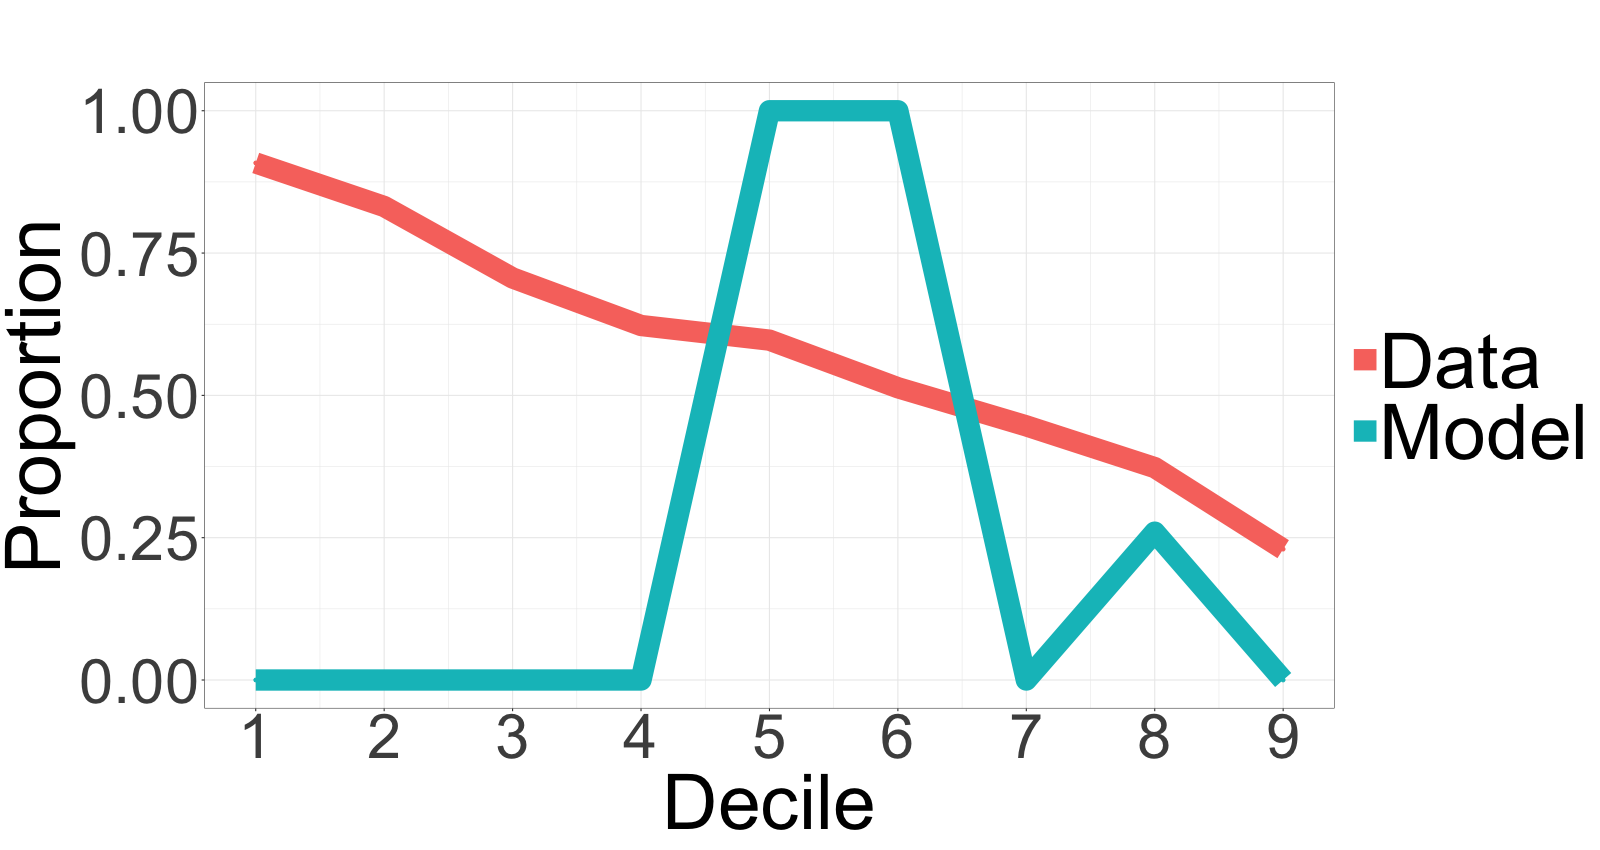
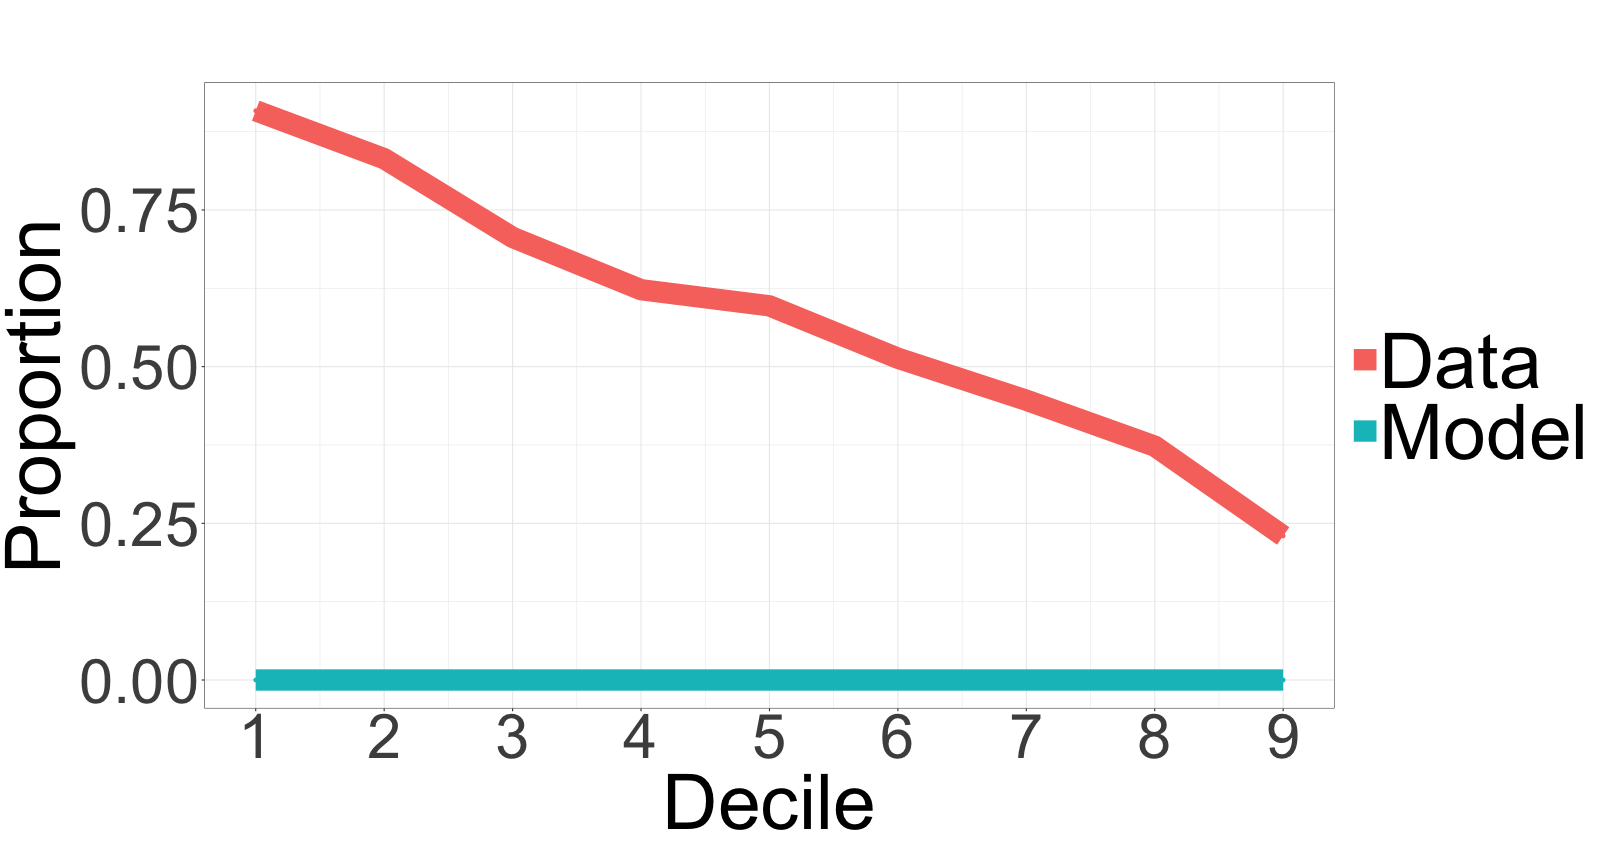
Include moment 2, labor demand, properly normalized in the computation of the distance

diff --git a/TheoreticalMoments/Equilibrium2-MODIFIABLE/Equilibrium2/main.cpp b/TheoreticalMoments/Equilibrium2-MODIFIABLE/Equilibrium2/main.cpp
@@ -1659,8 +1659,13 @@ double DistanceEstimator(arma::vec Others, arma::vec WagesInit,
     
     
             //Moment 2. Workers demanded (Size of firm).
+            vector<double> WorkersDemanded(10);
+            WorkersDemanded[0]=0.5;
+            WorkersDemanded[4]=1;
+            WorkersDemanded[8]=1.5;
     
             //Moment 3.Informal Demand
+            //This is handled directly in the computation of distances below.
     
     
             //Moment 4. Total Income.
@@ -1717,7 +1722,12 @@ double DistanceEstimator(arma::vec Others, arma::vec WagesInit,
     
     //Transforming theoretical income in proportion in terms of median:
     for(int it=0; it<9; it++){
-        //Total income and production.
+        
+        //Standardizing demand of workers total.
+        Theomoments[it][2]=Theomoments[it][2]/max(Theomoments[4][4],0.001);
+        
+        
+        //Total income and production are done because of the reason below.
         //The reason why this why decided to standardize was simply because when it comes to monetary unites
         //the distance is highly penalyzed. 
         Theomoments[it][4]=Theomoments[it][4]/max(Theomoments[4][4],0.001);
@@ -1746,24 +1756,18 @@ double DistanceEstimator(arma::vec Others, arma::vec WagesInit,
     }
     
     
-    
+    //0. Production
     distance+=3*pow((Production[0]-Theomoments[0][0])/(max(0.0001,Production[0])),2);
     distance+=3*pow((Production[4]-Theomoments[4][0])/(max(0.0001,Production[4])),2);
     distance+=3*pow((Production[8]-Theomoments[8][0])/(max(0.0001,Production[8])),2);
     
-    distance+=3*pow((IncomeEmpirical[0]-Theomoments[0][4])/(max(0.0001,IncomeEmpirical[0])),2);
-    distance+=3*pow((IncomeEmpirical[4]-Theomoments[4][4])/(max(0.0001,IncomeEmpirical[4])),2);
-    distance+=3*pow((IncomeEmpirical[8]-Theomoments[8][4])/(max(0.0001,IncomeEmpirical[8])),2);
+    //1. Taxes done inside of the loop.
+    //2. Labor demanded
+    distance+=3*pow((WorkersDemanded[0]-Theomoments[0][2])/(max(0.0001,WorkersDemanded[0])),2);
+    distance+=3*pow((WorkersDemanded[4]-Theomoments[4][2])/(max(0.0001,WorkersDemanded[4])),2);
+    distance+=3*pow((WorkersDemanded[8]-Theomoments[8][2])/(max(0.0001,WorkersDemanded[8])),2);
     
-    
-    distance+=3*pow((InformalSupplyProportion[0]-Theomoments[0][5])/(max(0.0001,InformalSupplyProportion[0])),2);
-    distance+=3*pow((InformalSupplyProportion[4]-Theomoments[4][5])/(max(0.0001,InformalSupplyProportion[4])),2);
-    distance+=3*pow((InformalSupplyProportion[8]-Theomoments[8][5])/(max(0.0001,InformalSupplyProportion[8])),2);
-    
-    distance+=3*pow((TotalLaborSupply[0]-Theomoments[0][6])/(max(0.0001,TotalLaborSupply[0])),2);
-    distance+=3*pow((TotalLaborSupply[4]-Theomoments[4][6])/(max(0.0001,TotalLaborSupply[4])),2);
-    distance+=3*pow((TotalLaborSupply[8]-Theomoments[8][6])/(max(0.0001,TotalLaborSupply[8])),2);
-    
+    //3. Informal demand
     //Moments relative to the proportion of informality in firm correspond to
     //4th, 7th and 8th decile. These proportions are 99.6, 97, and 91.2%.
     distance+=pow((Theomoments[3][3]-0.996)/(0.996),2);
@@ -1771,11 +1775,27 @@ double DistanceEstimator(arma::vec Others, arma::vec WagesInit,
     distance+=pow((Theomoments[7][3]-0.912)/(0.912),2);
     distance+=pow((Theomoments[8][3]-0.001)/(0.001),2);
     
-    cout << " pow((Theomoments[3][3]-0.996)/(0.996),2) "<< pow((Theomoments[3][3]-0.996)/(0.996),2) << endl;
-    cout << " pow((Theomoments[6][3]-0.996)/(0.996),2) "<< pow((Theomoments[6][3]-0.97)/(0.97),2) << endl;
-    cout << " pow((Theomoments[7][3]-0.996)/(0.996),2) "<< pow((Theomoments[7][3]-0.91)/(0.91),2) << endl;
-    cout << " pow((Theomoments[8][3]-0.996)/(0.996),2) "<< pow((Theomoments[8][3]-0.01)/(0.01),2) << endl;
-    cout << Theomoments[3][3] << "Theomoments[3][3]"<<endl;
+    //4. Total income is done inside of the previous loop.
+    distance+=3*pow((IncomeEmpirical[0]-Theomoments[0][4])/(max(0.0001,IncomeEmpirical[0])),2);
+    distance+=3*pow((IncomeEmpirical[4]-Theomoments[4][4])/(max(0.0001,IncomeEmpirical[4])),2);
+    distance+=3*pow((IncomeEmpirical[8]-Theomoments[8][4])/(max(0.0001,IncomeEmpirical[8])),2);
+    
+    //5. Informal Labor supply.
+    distance+=3*pow((InformalSupplyProportion[0]-Theomoments[0][5])/(max(0.0001,InformalSupplyProportion[0])),2);
+    distance+=3*pow((InformalSupplyProportion[4]-Theomoments[4][5])/(max(0.0001,InformalSupplyProportion[4])),2);
+    distance+=3*pow((InformalSupplyProportion[8]-Theomoments[8][5])/(max(0.0001,InformalSupplyProportion[8])),2);
+    
+    
+    //6. Total Labor supply.
+    distance+=3*pow((TotalLaborSupply[0]-Theomoments[0][6])/(max(0.0001,TotalLaborSupply[0])),2);
+    distance+=3*pow((TotalLaborSupply[4]-Theomoments[4][6])/(max(0.0001,TotalLaborSupply[4])),2);
+    distance+=3*pow((TotalLaborSupply[8]-Theomoments[8][6])/(max(0.0001,TotalLaborSupply[8])),2);
+    
+    
+    //7 Entrepreneurs and 8, aalpha, are done inside of the previous loop. 
+    
+    
+
     
     
     //Writing the csv file of the moments
